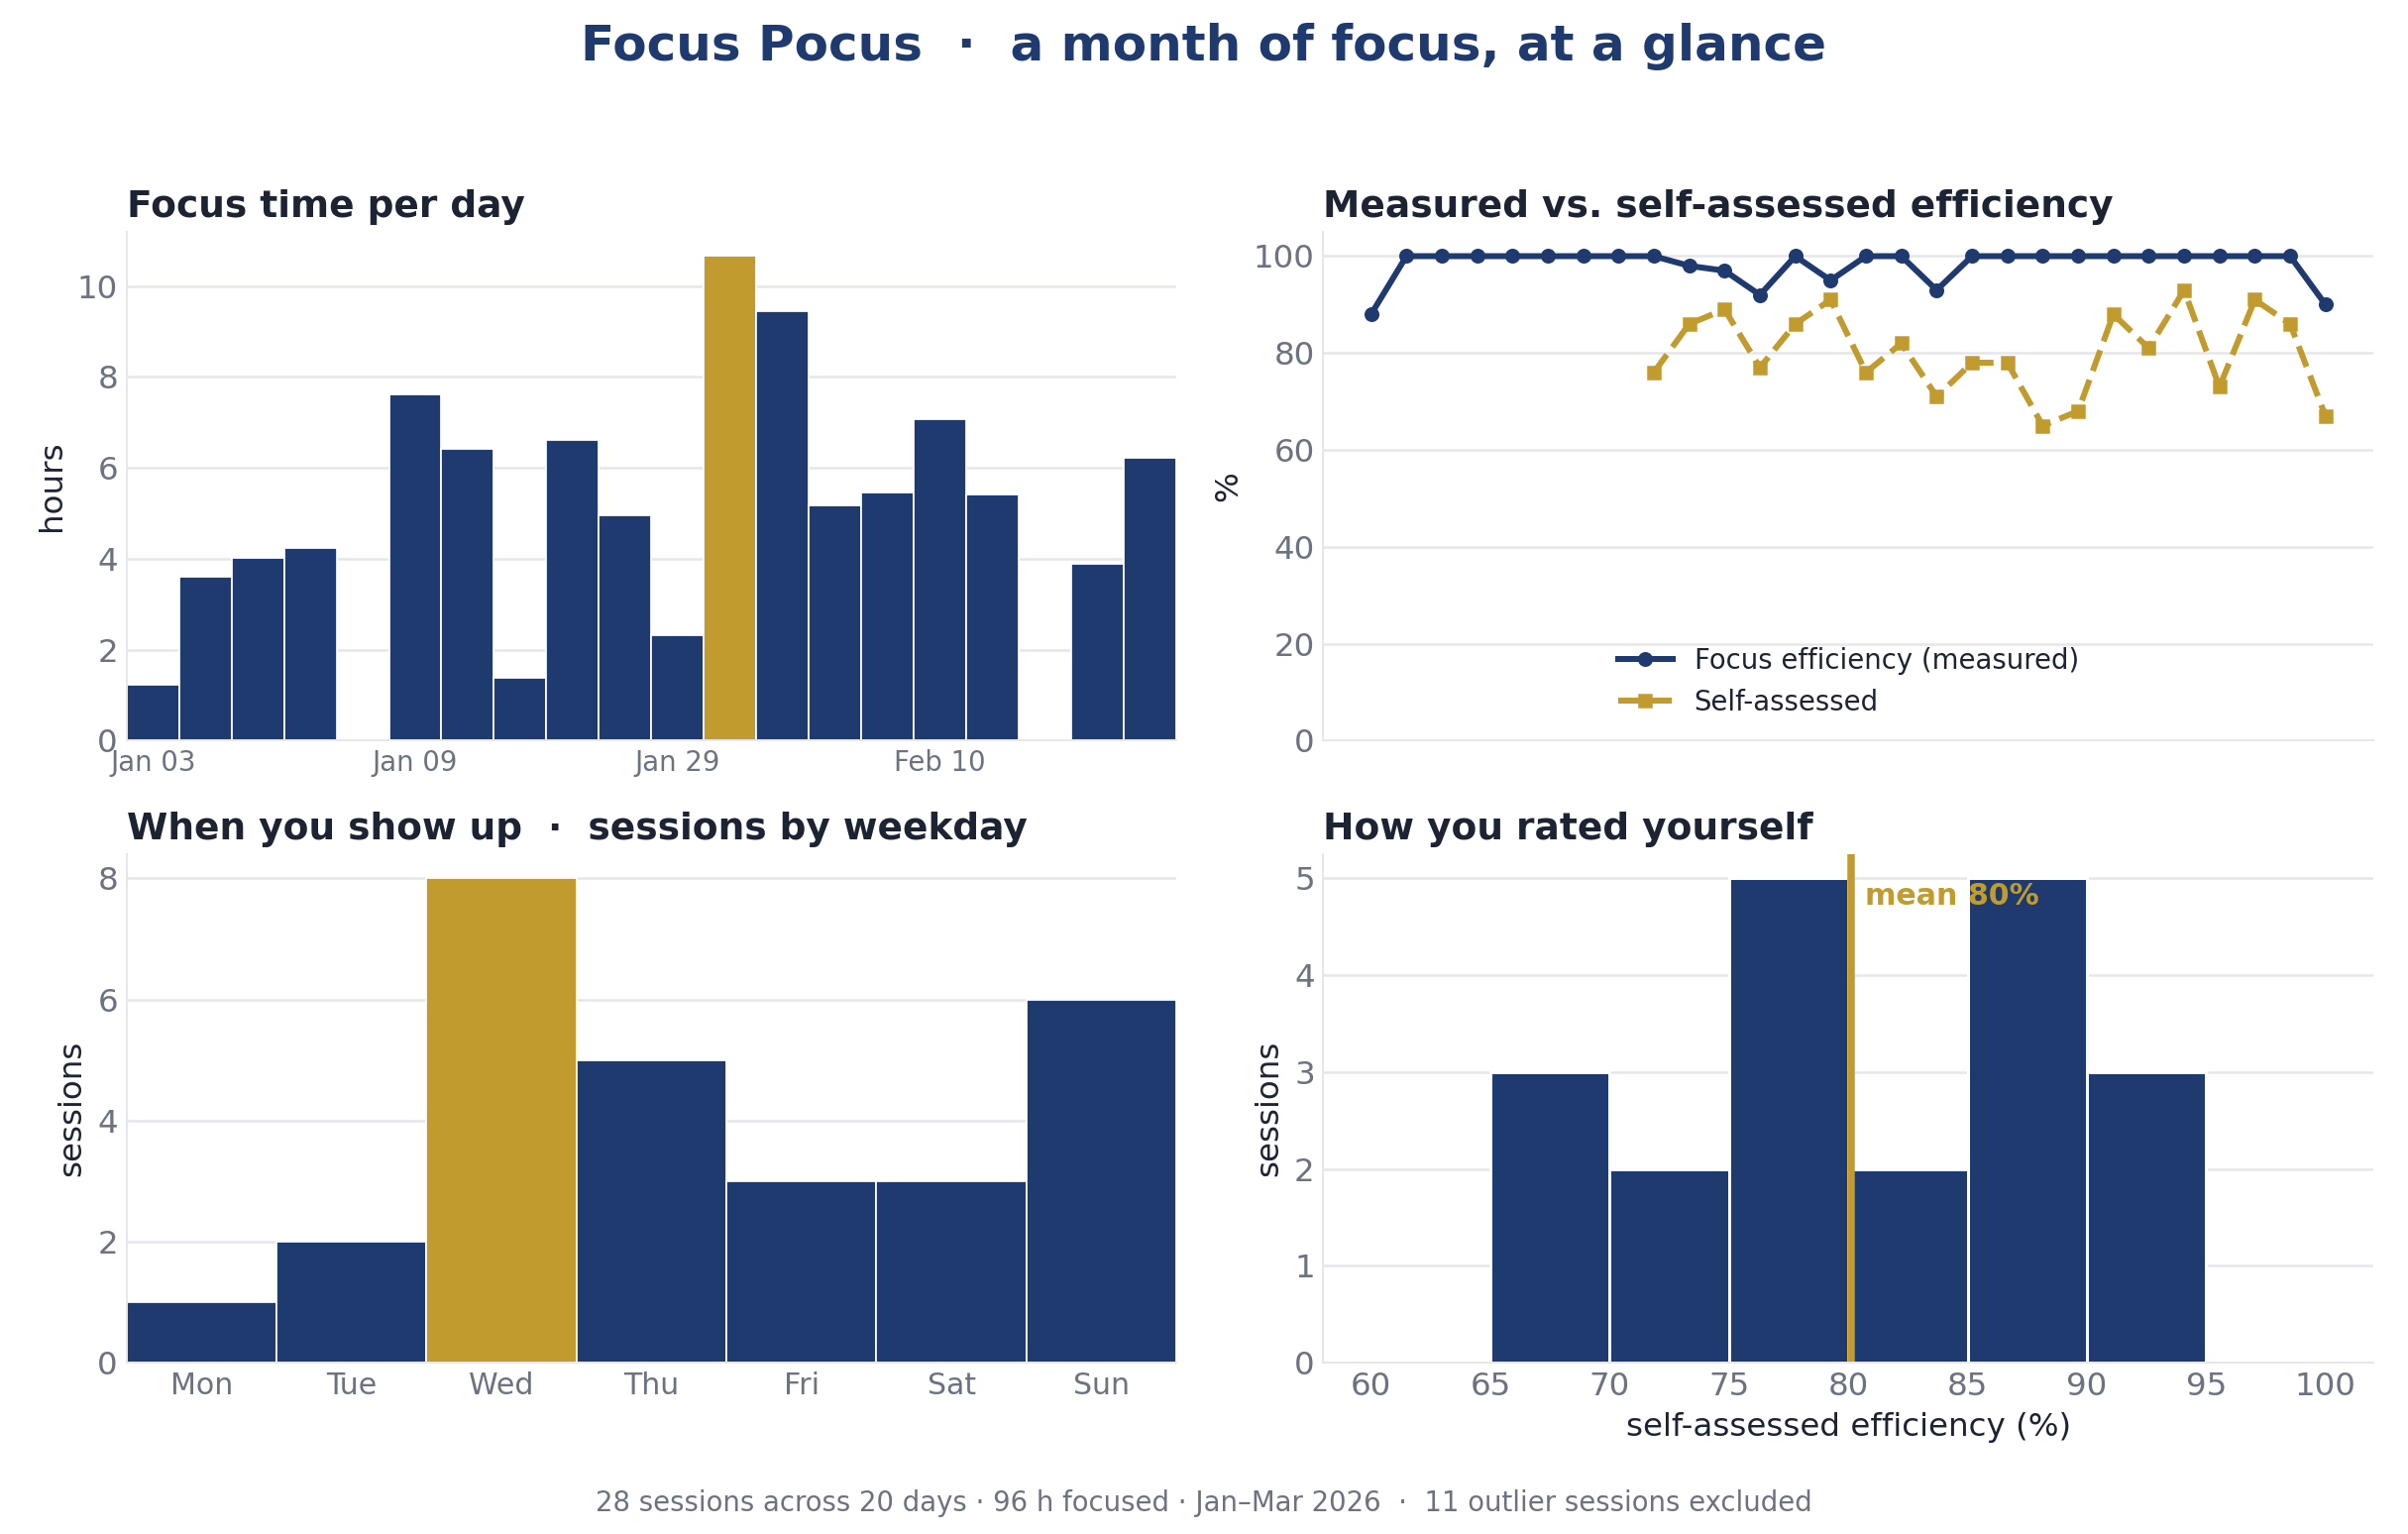
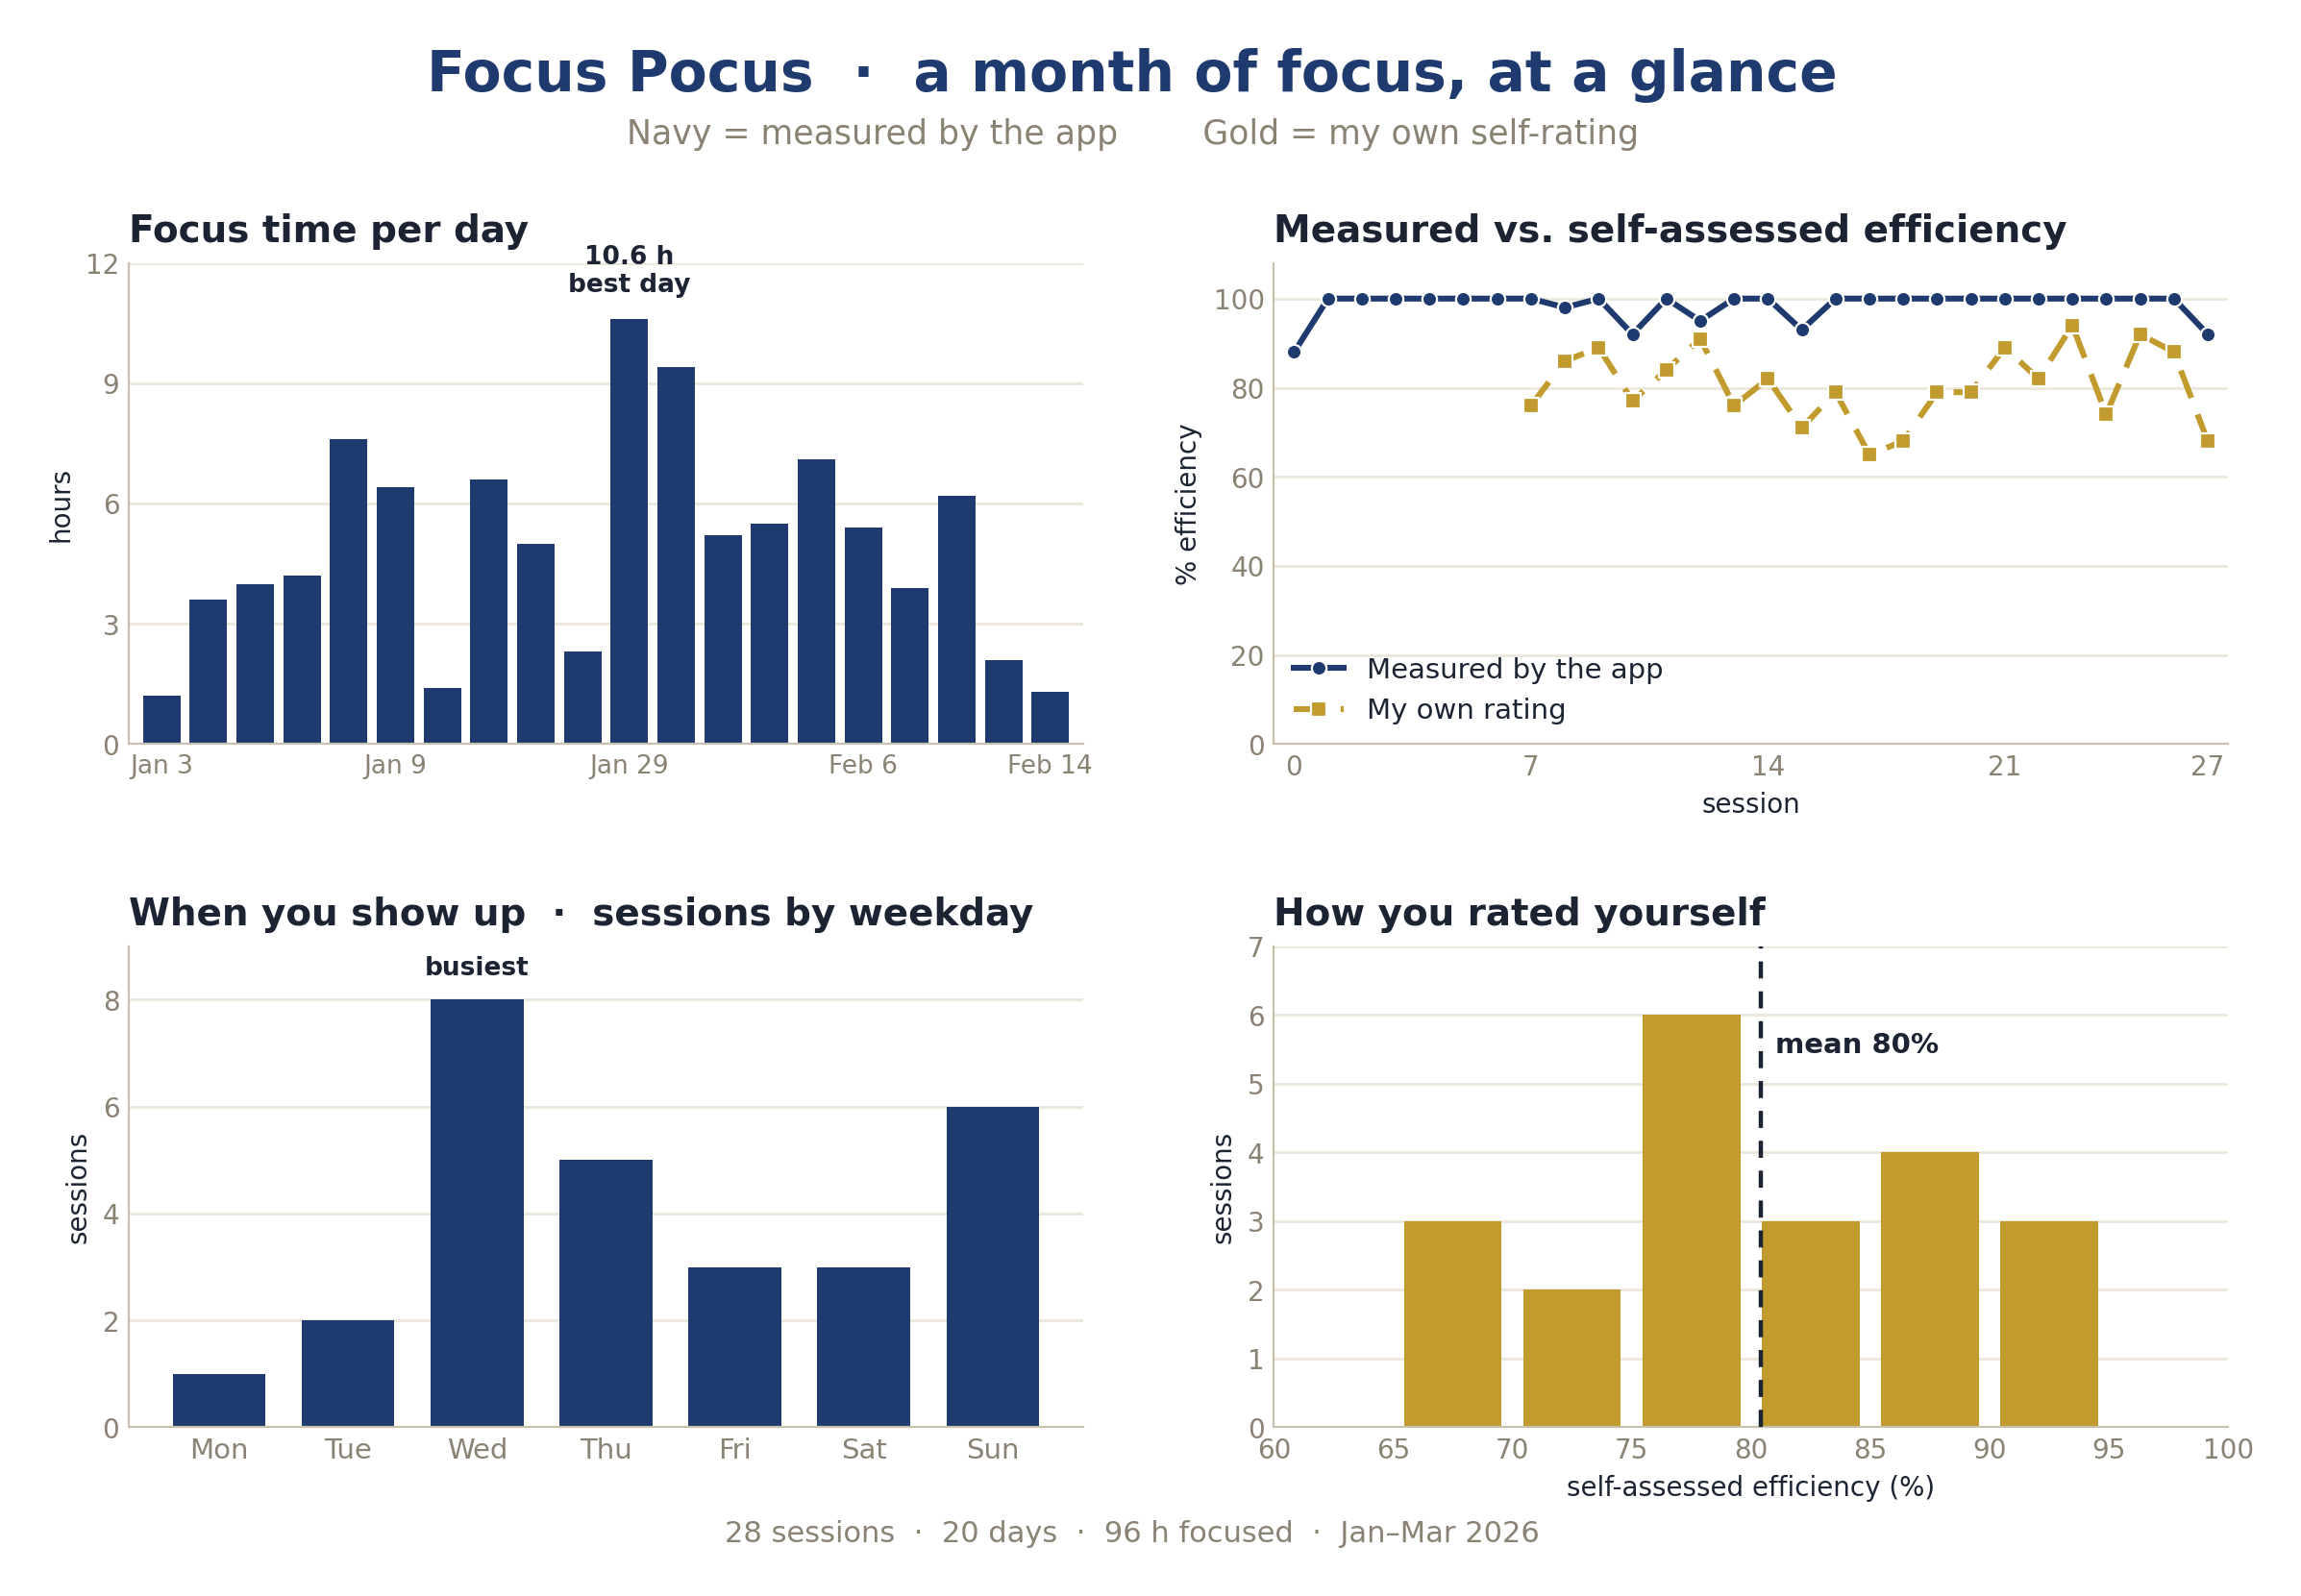
Update research and tools copy; fix DABEST year
- Add missing 2026 year to the DABEST 2.0 card and paper page
- Split the OPN3 paper page into two sections (OPN3 tool + ATR finding),
  expand the ATR section, and stub a commented-out placeholder for the
  forthcoming ATR figure
- Shorten "large language models" to "LLMs" on the tools page
- Revise the intro bio and the Focus Pocus writeup (privacy framing,
  self-accountability, updated stats caption)
- Add dashboard-figure helper script and TODO note (underscore-prefixed,
  excluded from the Quarto build)

diff --git a/tools/focus-pocus/_make_dashboard.py b/tools/focus-pocus/_make_dashboard.py
@@ -1,0 +1,142 @@
+import numpy as np
+import matplotlib
+matplotlib.use("Agg")
+import matplotlib.pyplot as plt
+from matplotlib.patches import FancyBboxPatch
+from matplotlib.lines import Line2D
+
+# ---- brand palette (from theme-light.scss) ----
+NAVY   = "#1E3A6E"   # objective / measured by the app
+GOLD   = "#C29B2E"   # subjective / your own self-rating
+INK    = "#1C2433"
+MUTED  = "#8A8272"
+GRID   = "#ECE7DA"
+AXISC  = "#C9C0AD"
+BG     = "#FFFFFF"
+
+plt.rcParams.update({
+    "font.family": "DejaVu Sans",
+    "figure.facecolor": BG, "axes.facecolor": BG,
+    "text.color": INK, "axes.labelcolor": INK,
+    "xtick.color": MUTED, "ytick.color": MUTED,
+    "axes.edgecolor": AXISC,
+})
+
+def rbar(ax, x, h, w, color, rmax=None):
+    """A clean flush bar anchored at the baseline."""
+    if h <= 0:
+        return
+    ax.bar(x, h, width=w, color=color, linewidth=0, zorder=2)
+
+def clean(ax):
+    for s in ("top", "right"):
+        ax.spines[s].set_visible(False)
+    ax.spines["left"].set_color(AXISC)
+    ax.spines["bottom"].set_color(AXISC)
+    ax.tick_params(length=0)
+    ax.set_axisbelow(True)
+    ax.yaxis.grid(True, color=GRID, lw=1)
+    ax.xaxis.grid(False)
+
+# ------------------------------------------------------------------ data
+# NOTE: transcribed from the previous stats-dashboard.png — replace with a
+# real session export for exact values.
+hours = [1.2,3.6,4.0,4.2,7.6,6.4,1.4,6.6,5.0,2.3,
+         10.6,9.4,5.2,5.5,7.1,5.4,3.9,6.2,2.1,1.3]
+peak = int(np.argmax(hours))
+
+measured = [88,100,100,100,100,100,100,100,98,100,92,100,95,100,
+            100,93,100,100,100,100,100,100,100,100,100,100,100,92]
+selfeff  = [np.nan]*7 + [76,86,89,77,84,91,76,82,71,79,65,68,79,79,
+                         89,82,94,74,92,88,68]
+
+wk_labels = ["Mon","Tue","Wed","Thu","Fri","Sat","Sun"]
+wk_counts = [1,2,8,5,3,3,6]
+busiest = int(np.argmax(wk_counts))
+
+s_vals = np.array([v for v in selfeff if not np.isnan(v)])
+bins = np.arange(60, 101, 5)
+mean_self = float(np.nanmean(s_vals))
+
+# ------------------------------------------------------------------ figure
+fig, axs = plt.subplots(2, 2, figsize=(12, 8.3), dpi=200)
+fig.subplots_adjust(left=0.065, right=0.975, top=0.83, bottom=0.10,
+                    hspace=0.42, wspace=0.20)
+
+fig.suptitle("Focus Pocus  ·  a month of focus, at a glance",
+             color=NAVY, fontsize=21, fontweight="bold", y=0.965)
+fig.text(0.5, 0.905,
+         "Navy = measured by the app        Gold = my own self-rating",
+         ha="center", color=MUTED, fontsize=12.5)
+
+# ---- Panel A: focus time per day (objective -> navy) ----
+axA = axs[0, 0]; clean(axA)
+for i, h in enumerate(hours):
+    rbar(axA, i, h, 0.80, NAVY, rmax=0.35)
+axA.set_xlim(-0.7, len(hours)-0.3); axA.set_ylim(0, 12)
+axA.set_title("Focus time per day", loc="left", color=INK,
+              fontsize=14, fontweight="bold", pad=8)
+axA.set_ylabel("hours")
+ticks = [0, 5, 10, 15, 19]
+axA.set_xticks(ticks)
+axA.set_xticklabels(["Jan 3","Jan 9","Jan 29","Feb 6","Feb 14"], fontsize=9.5)
+axA.set_yticks([0,3,6,9,12])
+axA.annotate(f"{hours[peak]:.1f} h\nbest day", xy=(peak, hours[peak]),
+             xytext=(peak, hours[peak]+0.55), ha="center", va="bottom",
+             fontsize=9.5, color=INK, fontweight="bold", linespacing=1.15)
+
+# ---- Panel B: measured vs self-assessed efficiency (the anchor) ----
+axB = axs[0, 1]; clean(axB)
+x = np.arange(len(measured))
+axB.plot(x, measured, color=NAVY, lw=2.2, marker="o", ms=5.5,
+         mfc=NAVY, mec="white", mew=0.8, zorder=3, label="Measured by the app")
+axB.plot(x, selfeff, color=GOLD, lw=2.2, ls=(0,(5,3)), marker="s", ms=5.5,
+         mfc=GOLD, mec="white", mew=0.8, zorder=3, label="My own rating")
+axB.set_ylim(0, 108); axB.set_yticks([0,20,40,60,80,100])
+axB.set_xlim(-0.6, len(x)-0.4)
+axB.set_title("Measured vs. self-assessed efficiency", loc="left",
+              color=INK, fontsize=14, fontweight="bold", pad=8)
+axB.set_ylabel("% efficiency"); axB.set_xlabel("session", fontsize=10)
+axB.set_xticks([0,7,14,21,27])
+axB.legend(loc="lower left", frameon=False, fontsize=10.5,
+           handlelength=1.8, borderaxespad=0.3)
+
+# ---- Panel C: sessions by weekday (objective -> navy) ----
+axC = axs[1, 0]; clean(axC)
+for i, c in enumerate(wk_counts):
+    rbar(axC, i, c, 0.72, NAVY, rmax=0.28)
+axC.set_xlim(-0.7, 6.7); axC.set_ylim(0, 9)
+axC.set_xticks(range(7)); axC.set_xticklabels(wk_labels, fontsize=10.5)
+axC.set_yticks([0,2,4,6,8])
+axC.set_title("When you show up  ·  sessions by weekday", loc="left",
+              color=INK, fontsize=14, fontweight="bold", pad=8)
+axC.set_ylabel("sessions")
+axC.annotate("busiest", xy=(busiest, wk_counts[busiest]),
+             xytext=(busiest, wk_counts[busiest]+0.35), ha="center",
+             va="bottom", fontsize=9.5, color=INK, fontweight="bold")
+
+# ---- Panel D: how you rated yourself (subjective -> gold) ----
+axD = axs[1, 1]; clean(axD)
+counts, edges = np.histogram(s_vals, bins=bins)
+for c, lo, hi in zip(counts, edges[:-1], edges[1:]):
+    if c > 0:
+        rbar(axD, (lo+hi)/2, c, (hi-lo)*0.82, GOLD, rmax=1.2)
+axD.axvline(mean_self, color=INK, ls=(0,(4,3)), lw=1.6, zorder=4)
+axD.text(mean_self+0.6, counts.max()*0.96, f"mean {mean_self:.0f}%",
+         color=INK, fontsize=10.5, fontweight="bold", va="top")
+axD.set_xlim(60, 100); axD.set_ylim(0, counts.max()+1)
+axD.set_xticks([60,65,70,75,80,85,90,95,100])
+axD.set_yticks(range(0, counts.max()+2))
+axD.set_title("How you rated yourself", loc="left", color=INK,
+              fontsize=14, fontweight="bold", pad=8)
+axD.set_ylabel("sessions"); axD.set_xlabel("self-assessed efficiency (%)")
+
+fig.text(0.5, 0.028,
+         "28 sessions  ·  20 days  ·  96 h focused  ·  Jan–Mar 2026",
+         ha="center", color=MUTED, fontsize=11)
+
+out = r"C:\Users\User\Documents\GitHub\Portfolio\tools\focus-pocus\stats-dashboard.png"
+fig.savefig(out, dpi=200, facecolor=BG, bbox_inches="tight", pad_inches=0.25)
+print("saved", out)
+print("mean_self", round(mean_self,1), "| hist", counts.tolist(),
+      "| sum", int(counts.sum()))

diff --git a/tools/focus-pocus/_TODO-dashboard.md b/tools/focus-pocus/_TODO-dashboard.md
@@ -1,0 +1,29 @@
+# TODO — revisit the Focus Pocus stats dashboard
+
+**Delete this file (and `_make_dashboard.py`) once done.** The `_` prefix keeps both out of the
+Quarto build, so they won't appear on the site.
+
+## What's here
+`stats-dashboard.png` was regenerated with a consistent color rule:
+
+> **Navy = objective data the app measured. Gold = my own self-rating.**
+
+(Previously gold was doing three different jobs — peak-day bar, a data series, and a mean line —
+which read as inconsistent. Now gold means *only* "my self-assessment.")
+
+## ⚠️ Why to revisit
+The data in the current figure was **transcribed by eye from the OLD png** — it is approximate,
+not the real export. The caption calls these "my own real sessions," so the numbers should be true.
+
+## To finish
+1. Export the real session data from the Focus Pocus app (CSV/JSON).
+2. Open `_make_dashboard.py`, replace the hand-typed arrays (`hours`, `measured`, `selfeff`,
+   `wk_counts`) with the real values.
+3. Regenerate:
+   `& "C:\Users\User\anaconda3\python.exe" _make_dashboard.py`
+   (or whatever your Python is on the new machine — needs `matplotlib` + `numpy`).
+4. Check the PNG, then delete this note and `_make_dashboard.py`.
+
+## Also still open
+- Confirm the privacy claims in `index.qmd` ("Your data never leaves your machine") are exactly
+  accurate for the shipped app.